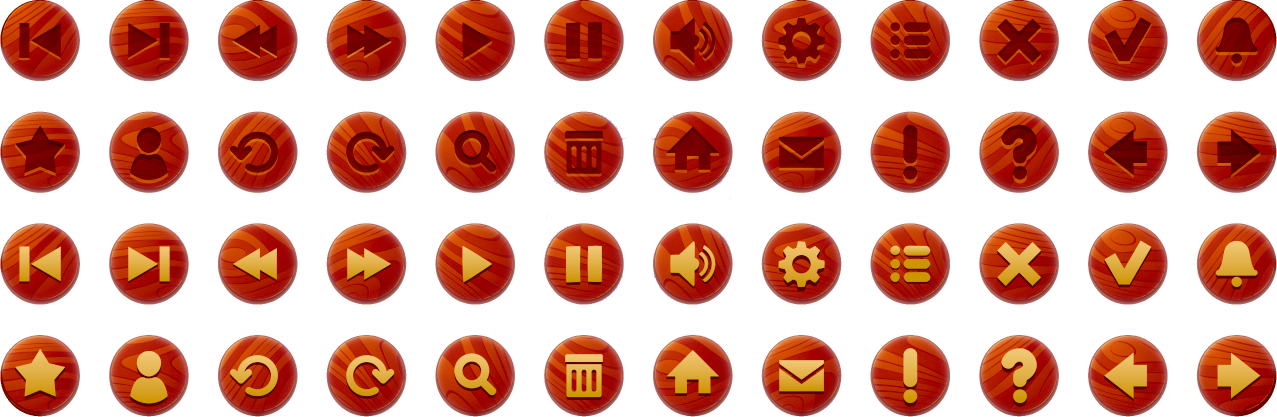
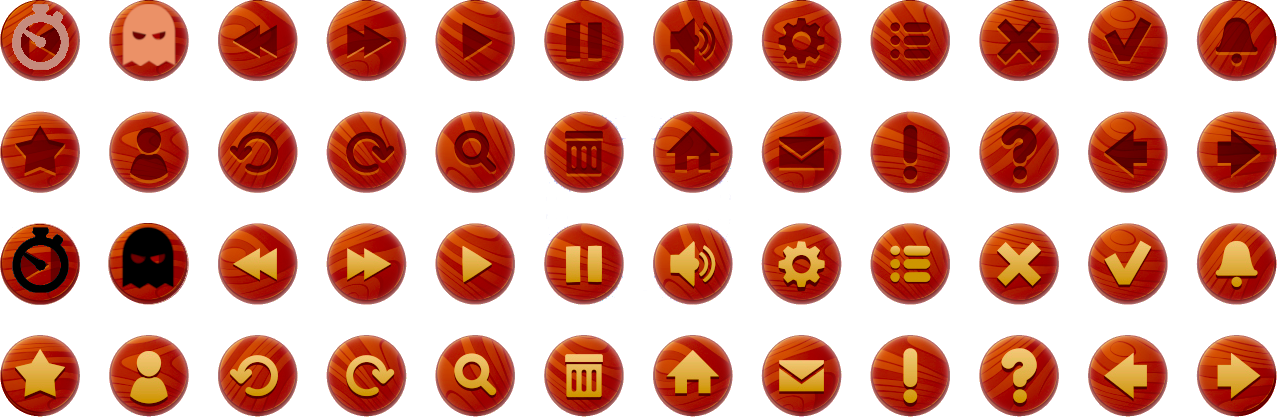
Add: frames powerUp

Changed region(s): [[0.0, 0.53, 0.1527, 0.7482], [0.0, 0.0, 0.0611, 0.1871], [0.0916, 0.0, 0.1527, 0.1559]]

diff --git a/final/RanceXStreet/src/states/StartState.py b/final/RanceXStreet/src/states/StartState.py
@@ -9,11 +9,23 @@ import settings
 class StartState(BaseState):
     def enter(self) -> None:
         self.selected = 1
-        InputHandler.register_listener(self)
+        self.i = 0 #borrar
+        self.contador = 0 #borrarr
+        InputHandler.register_listener(self) 
     
     def exit(self)  -> None:
         InputHandler.unregister_listener(self)
     
+    def update(self, dt: float) -> None: # borrar todo el metodo, solo para demostracion
+        self.contador += 1
+        if self.contador > 1:
+            self.i += 1
+            self.contador = 0
+        if self.i > 4:
+            self.i = 0
+            self.contador = 0
+        
+
     def on_input(self, input_id: str, input_data: InputData) -> None:
         if input_id == "move_down" and input_data.pressed:
             self.selected = min(3, self.selected + 1)
@@ -32,7 +44,7 @@ class StartState(BaseState):
     
     def render(self, surface: pygame.surface) -> None:
         surface.blit(settings.TEXTURES["startate"].convert_alpha(), (0, 0))
-
+        
         color = settings.COLOR_LIGHT
         font = settings.FONTS["medium"]
         if self.selected == 1:
@@ -80,6 +92,9 @@ class StartState(BaseState):
             color,
             center= False,
         )
+        surface.blit(settings.TEXTURES["powerUp"].convert_alpha(), ((settings.VIRTUAL_WIDTH) // 2 - 130 - settings.ICON_WIDHT, (settings.VIRTUAL_HEIGHT) // 2 - 45), settings.FRAMES["list_powerUp"][self.i])  #borrar
+
+
         
             
         

diff --git a/final/RanceXStreet/settings.py b/final/RanceXStreet/settings.py
@@ -8,7 +8,7 @@ import pygame
 from gale import frames
 from gale import input_handler
 
-from src.utilities.frames import generate_icons_frames, generate_cars_frames
+from src.utilities.frames import generate_icons_frames, generate_cars_frames, generate_powerUp_frames
 
 input_handler.InputHandler.set_keyboard_action(input_handler.KEY_ESCAPE, 'quit')
 input_handler.InputHandler.set_keyboard_action(input_handler.KEY_RETURN, "enter")
@@ -79,6 +79,7 @@ TEXTURES = {
     "Set_vehicle2": pygame.image.load(BASE_DIR / "graphics" / "vehicle" / "Set_vehicle3.png"),
     "Set_vehicle3": pygame.image.load(BASE_DIR / "graphics" / "vehicle" / "Set_vehicle4.png"),
     "Set_vehicle4": pygame.image.load(BASE_DIR / "graphics" / "vehicle" / "Set_vehicle5.png"),
+    "powerUp": pygame.image.load(BASE_DIR / "graphics" / "object" / "powerUp.png"),
 }
 
 # Register your frames, for instance:
@@ -88,6 +89,7 @@ TEXTURES = {
 FRAMES = {
     "list_icons": generate_icons_frames(),
     "list_cars" : generate_cars_frames(),
+    "list_powerUp": generate_powerUp_frames(),
 }
 
 pygame.mixer.init()

diff --git a/final/RanceXStreet/src/utilities/frames.py b/final/RanceXStreet/src/utilities/frames.py
@@ -28,3 +28,15 @@ def generate_cars_frames() ->List[pygame.Rect]:
         x += settings.CAR_WIDTH 
           
     return frames
+
+def generate_powerUp_frames() ->List[pygame.Rect]:
+    x = 0
+    y = 0
+    frames = []
+    for f in range(2):
+        for c in range(6):
+            frames.append(pygame.Rect(x,y, 50, 50))
+            x += 50
+        x = 0
+        y += 50 
+    return frames
